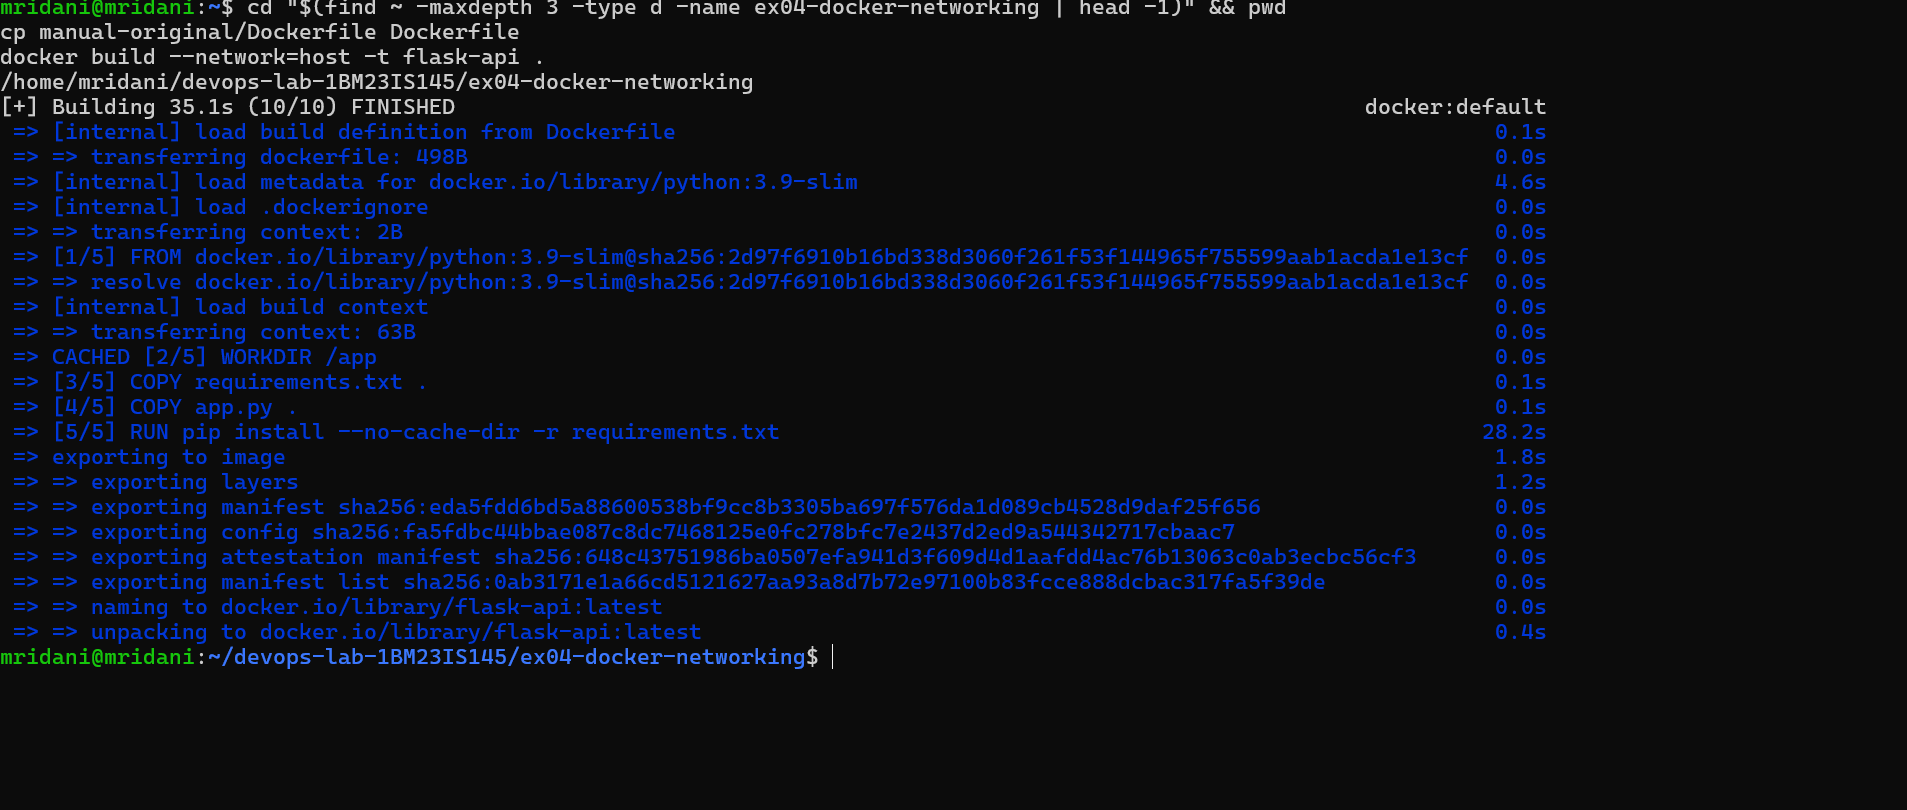
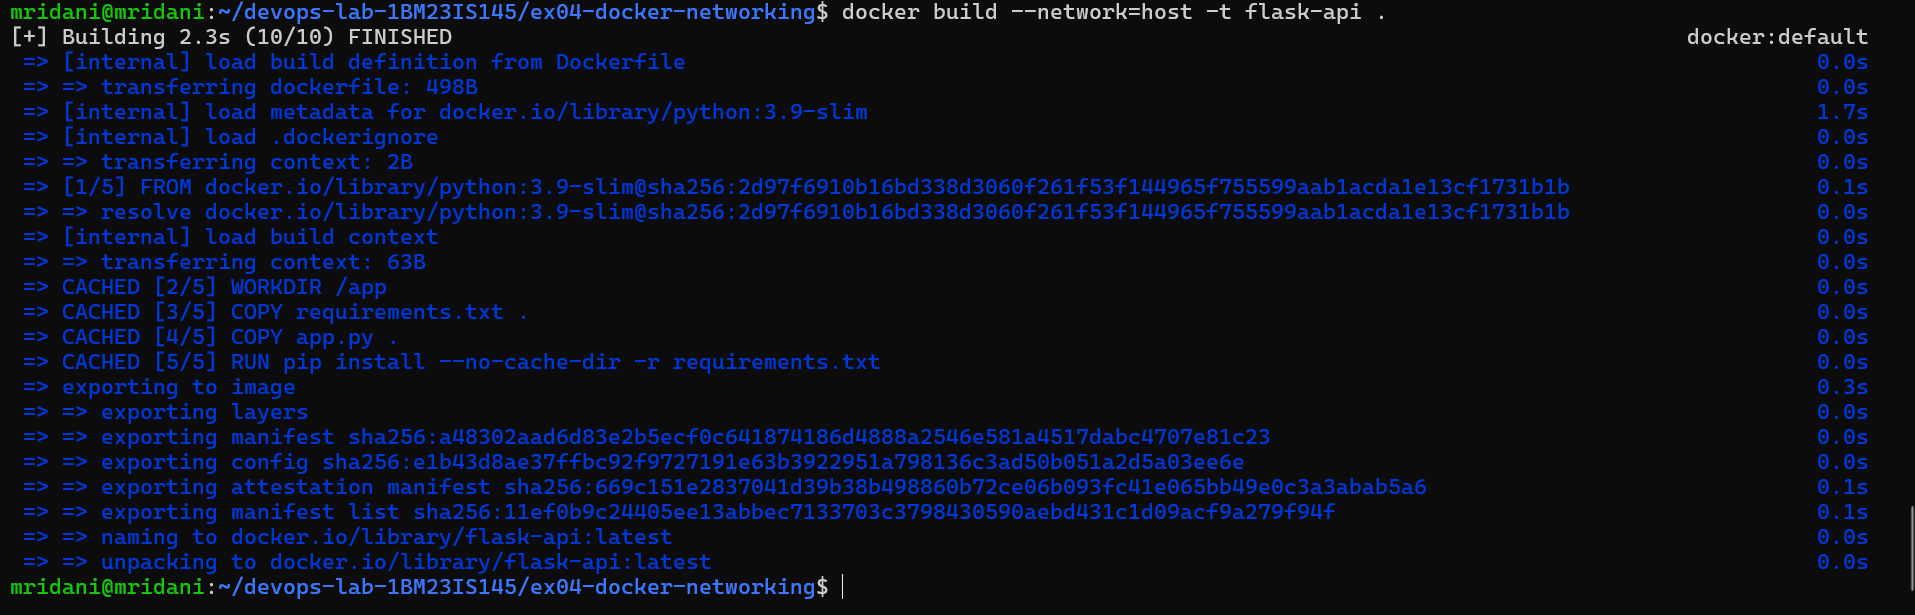
Exercise 4: use manual's exact app.py

diff --git a/ex04-docker-networking/app.py b/ex04-docker-networking/app.py
@@ -11,4 +11,4 @@ def about():
     })
 
 if __name__ == '__main__':
-    app.run(host="0.0.0.0", debug=True, port=5001)
+    app.run(debug=True, port=5001)  # Specify the port number here

diff --git a/ex04-docker-networking/README.md b/ex04-docker-networking/README.md
@@ -16,7 +16,7 @@ Configure a multi-container application (Flask + MySQL + Redis) on a user-define
    - `docker run -d --name mysql --net=my-bridge-net -e MYSQL_ROOT_PASSWORD=root mysql:latest`
    - `docker run -d --name redis --net=my-bridge-net redis:latest`
    - `docker run -d --name flask --net=my-bridge-net -p 5001:5001 flask-api`
-5. Verify: `docker ps` and browser at `http://localhost:5001/about`
+5. Verify: `docker ps`
 6. Test connectivity: `docker exec -it flask bash`, install ping with `apt-get update && apt-get install -y iputils-ping`, then `ping -c 4 mysql` and `ping -c 4 redis`
 7. Clean up: stop/remove containers and remove the network
 
@@ -24,15 +24,13 @@ Configure a multi-container application (Flask + MySQL + Redis) on a user-define
 | Issue | Effect | Fix |
 |---|---|---|
 | MySQL run without a root password | MySQL container exits immediately | Added `-e MYSQL_ROOT_PASSWORD=root` |
-| Flask bound to 127.0.0.1 (default) | API not reachable from host | `app.run(host="0.0.0.0", ...)` |
 | Flask 2.0.1 with newer Werkzeug | ImportError on startup | Pinned `Werkzeug==2.0.3` |
 | `python:3.9-slim` has no `ping` | `ping: command not found` | Installed `iputils-ping` inside the running container (Dockerfile left exactly as in the manual) |
 
 ## Screenshots
 1. Build and network: ![](screenshots/01-build.png)
 2. Containers running and ping test: ![](screenshots/02-ping.png)
-3. Flask API in browser: ![](screenshots/03-browser.png)
-4. Cleanup: ![](screenshots/04-cleanup.png)
+3. Cleanup: ![](screenshots/04-cleanup.png)
 
 ## Questions
 1. **Purpose of `--net`?** Connects the container to a specific Docker network.
@@ -54,4 +52,3 @@ The manual's unmodified files are kept in [`manual-original/`](manual-original/)
 | `ping mysql` inside the Flask image | `exec: "ping": executable file not found in $PATH` | ![](screenshots/08-manual-no-ping.png) |
 
 These three failures are why the working version adds `MYSQL_ROOT_PASSWORD`, pins `Werkzeug==2.0.3` and installs `iputils-ping` inside the container.
-`host="0.0.0.0"` is not needed for the manual's steps (which only test with `ping`); it was added only to also verify the API from the browser (`03-browser.png`).
